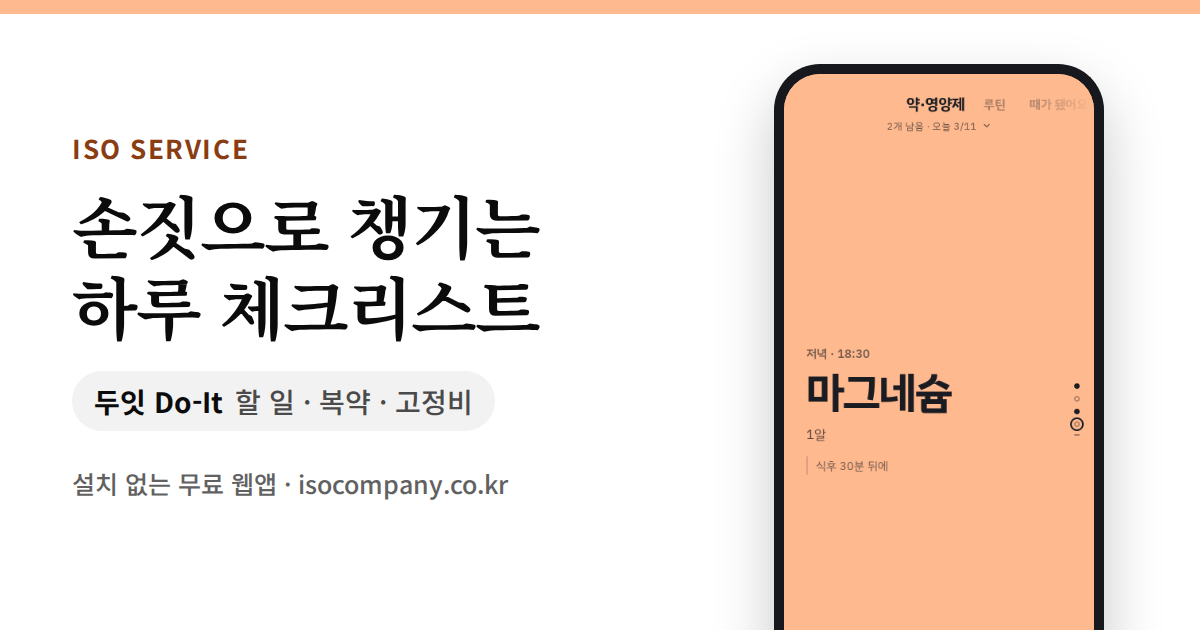
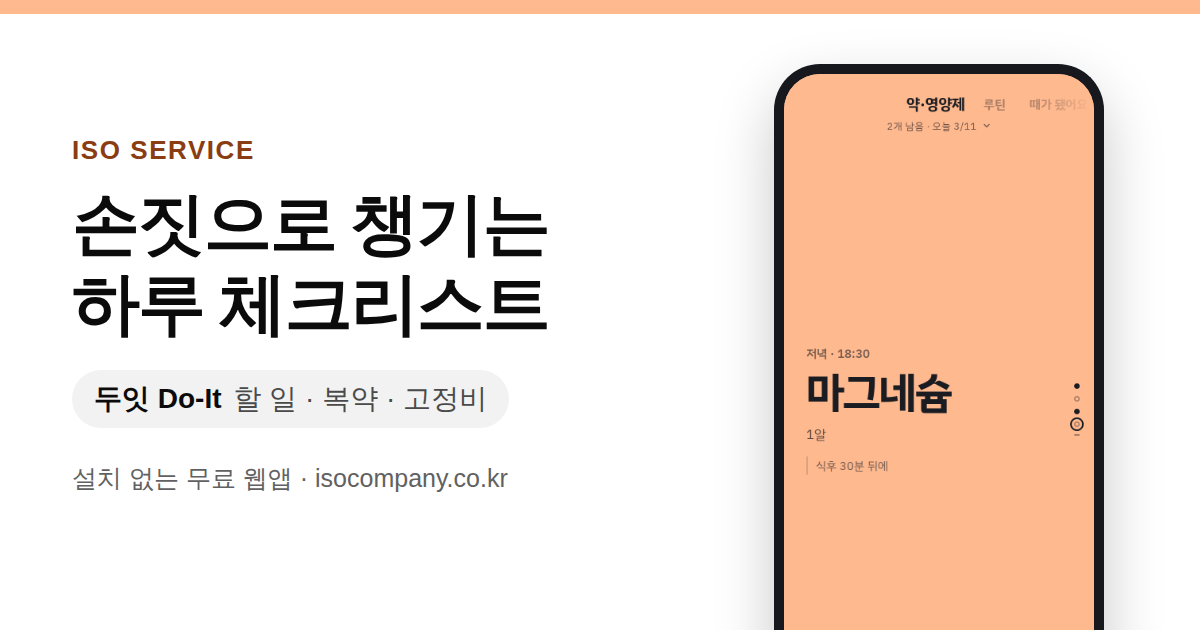
Feat: 공유 카드가 content/ 의 문구를 읽도록 연결
카드 HTML 에 박혀 있던 글자를 걷어내고 content/og.yml 과 services/*.yml 에서
받아 오게 했습니다. 서비스 한 줄 소개처럼 페이지와 겹치던 문구는 이제 한
곳에만 있습니다.

npm run og 로 카드 여섯 장을 다시 만듭니다(크롬 필요).
문구 연결을 맞추면서 홈 카드의 Do-It 설명이 페이지와 같아졌습니다
("할 일 · 복약 · 고정비 체크" -> "할 일·복약·고정비 체크 앱").

그림 외 빌드 산출물은 한 글자도 달라지지 않았습니다.

Claude-Session: https://claude.ai/code/session_019EnYkUvV32QaETB4UPKn2y

diff --git a/scripts/og-home.html b/scripts/og-home.html
@@ -57,29 +57,44 @@
 				font-weight: 500; color: #616161;
 			}
 			.foot { margin-top: 26px; font-size: 25px; font-weight: 500; color: #616161; }
-			.en { display: none; }
-			html.is-en .ko { display: none; }
-			html.is-en .en { display: inline; }
 		</style>
 	</head>
 	<body>
-		<script>if (location.hash === '#en') document.documentElement.classList.add('is-en'), document.documentElement.lang = 'en';</script>
-		<p class="eyebrow">ISO SERVICE</p>
-		<h1><span class="ko">북적이는<br />1인 스튜디오</span><span class="en">A crowded<br />one-person studio</span></h1>
+		<p class="eyebrow" data-og="eyebrow"></p>
+		<h1 data-og="home.headline"></h1>
 
 		<div class="cards">
 			<div class="card">
-				<b>Bible OnAir</b>
-				<i><span class="ko">예배용 성경 구절 프롬프터</span><span class="en">A scripture prompter for worship</span></i>
-				<em><span class="ko">Windows · 무료</span><span class="en">Windows · free</span></em>
+				<b data-og="home.cards.0.name"></b>
+				<i data-og="home.cards.0.tagline"></i>
+				<em data-og="home.cards.0.note"></em>
 			</div>
 			<div class="card">
-				<b>Do-It</b>
-				<i><span class="ko">할 일 · 복약 · 고정비 체크</span><span class="en">To-dos · pills · bills</span></i>
-				<em><span class="ko">웹앱 · 설치 없음</span><span class="en">Web app · no install</span></em>
+				<b data-og="home.cards.1.name"></b>
+				<i data-og="home.cards.1.tagline"></i>
+				<em data-og="home.cards.1.note"></em>
 			</div>
 		</div>
 
-		<p class="foot">isocompany.co.kr</p>
+		<p class="foot" data-og="home.foot"></p>
+		<script src="og-content.js"></script>
+		<script>
+			/* 문구는 content/ 에서 옵니다. 여기서는 자리에 끼워 넣기만 합니다. */
+			(function () {
+				var lang = location.hash === '#en' ? 'en' : 'ko';
+				document.documentElement.lang = lang;
+				var data = window.OG[lang];
+				document.querySelectorAll('[data-og]').forEach(function (el) {
+					var value = el.dataset.og.split('.').reduce(function (o, k) {
+						return o == null ? o : o[k];
+					}, data);
+					el.textContent = '';
+					String(value == null ? '' : value).split('\n').forEach(function (line, i) {
+						if (i) el.appendChild(document.createElement('br'));
+						el.appendChild(document.createTextNode(line));
+					});
+				});
+			})();
+		</script>
 	</body>
 </html>

diff --git a/scripts/og-do-it.html b/scripts/og-do-it.html
@@ -58,24 +58,40 @@
 				background: #FFB98F;
 			}
 			.phone img { display: block; width: 100%; }
-			.en { display: none; }
-			html.is-en .ko { display: none; }
-			html.is-en .en { display: inline; }
 		</style>
 		<script>if (location.hash === '#en') document.documentElement.classList.add('is-en'), document.documentElement.lang = 'en';</script>
 	</head>
 	<body>
 		<div class="copy">
-			<p class="eyebrow">ISO Service</p>
-			<h1><span class="ko">손짓으로 챙기는<br />하루 체크리스트</span><span class="en">A daily checklist<br />you run by touch</span></h1>
+			<p class="eyebrow" data-og="eyebrow"></p>
+			<h1 data-og="services.do-it.headline"></h1>
 			<p class="product">
-				<span class="ko" style="color:inherit;font-weight:700">두잇 Do-It</span><span class="en" style="color:inherit;font-weight:700">Do-It</span>
-				<span><span class="ko">할 일 · 복약 · 고정비</span><span class="en">To-dos · pills · bills</span></span>
+				<span style="color:inherit;font-weight:700" data-og="services.do-it.pillName"></span>
+				<span data-og="services.do-it.pillTagline"></span>
 			</p>
-			<p class="foot"><span class="ko">설치 없는 무료 웹앱 · isocompany.co.kr</span><span class="en">Free web app, no install · isocompany.co.kr</span></p>
+			<p class="foot" data-og="services.do-it.foot"></p>
 		</div>
 		<div class="phone">
 			<img src="../public/assets/screenshots/do-it-feed.png" alt="" />
 		</div>
+		<script src="og-content.js"></script>
+		<script>
+			/* 문구는 content/ 에서 옵니다. 여기서는 자리에 끼워 넣기만 합니다. */
+			(function () {
+				var lang = location.hash === '#en' ? 'en' : 'ko';
+				document.documentElement.lang = lang;
+				var data = window.OG[lang];
+				document.querySelectorAll('[data-og]').forEach(function (el) {
+					var value = el.dataset.og.split('.').reduce(function (o, k) {
+						return o == null ? o : o[k];
+					}, data);
+					el.textContent = '';
+					String(value == null ? '' : value).split('\n').forEach(function (line, i) {
+						if (i) el.appendChild(document.createElement('br'));
+						el.appendChild(document.createTextNode(line));
+					});
+				});
+			})();
+		</script>
 	</body>
 </html>

diff --git a/scripts/og-bible-onair.html b/scripts/og-bible-onair.html
@@ -55,21 +55,36 @@
 				box-shadow: 0 26px 60px rgba(0, 0, 0, 0.18);
 			}
 			.shot img { display: block; width: 100%; }
-			.en { display: none; }
-			html.is-en .ko { display: none; }
-			html.is-en .en { display: inline; }
 		</style>
 	</head>
 	<body>
-		<script>if (location.hash === '#en') document.documentElement.classList.add('is-en'), document.documentElement.lang = 'en';</script>
 		<div class="copy">
-			<p class="eyebrow">ISO Service</p>
-			<h1><span class="ko">예배용<br />성경 자막 프로그램</span><span class="en">A scripture prompter<br />for worship</span></h1>
-			<p class="product">Bible OnAir <span><span class="ko">성경 구절 프롬프터</span><span class="en">Scripture on the screen</span></span></p>
-			<p class="foot"><span class="ko">Windows 무료 · isocompany.co.kr</span><span class="en">Free for Windows · isocompany.co.kr</span></p>
+			<p class="eyebrow" data-og="eyebrow"></p>
+			<h1 data-og="services.bible-onair.headline"></h1>
+			<p class="product"><span data-og="services.bible-onair.pillName"></span> <span data-og="services.bible-onair.pillTagline"></span></p>
+			<p class="foot" data-og="services.bible-onair.foot"></p>
 		</div>
 		<div class="shot">
 			<img src="../public/assets/screenshots/bible-onair-screen.png" alt="" />
 		</div>
+		<script src="og-content.js"></script>
+		<script>
+			/* 문구는 content/ 에서 옵니다. 여기서는 자리에 끼워 넣기만 합니다. */
+			(function () {
+				var lang = location.hash === '#en' ? 'en' : 'ko';
+				document.documentElement.lang = lang;
+				var data = window.OG[lang];
+				document.querySelectorAll('[data-og]').forEach(function (el) {
+					var value = el.dataset.og.split('.').reduce(function (o, k) {
+						return o == null ? o : o[k];
+					}, data);
+					el.textContent = '';
+					String(value == null ? '' : value).split('\n').forEach(function (line, i) {
+						if (i) el.appendChild(document.createElement('br'));
+						el.appendChild(document.createTextNode(line));
+					});
+				});
+			})();
+		</script>
 	</body>
 </html>

diff --git a/scripts/og-content.js b/scripts/og-content.js
@@ -1,0 +1,71 @@
+/* 자동 생성 파일입니다. 고치지 마세요.
+   문구는 content/og.yml 과 content/services/*.yml 에 있고,
+   npm run build 가 이 파일을 다시 만듭니다. */
+window.OG = {
+	"ko": {
+		"eyebrow": "ISO SERVICE",
+		"home": {
+			"headline": "북적이는\n1인 스튜디오",
+			"foot": "isocompany.co.kr",
+			"cards": [
+				{
+					"name": "Bible OnAir",
+					"tagline": "예배용 성경 구절 프롬프터",
+					"note": "Windows · 무료"
+				},
+				{
+					"name": "Do-It",
+					"tagline": "할 일·복약·고정비 체크 앱",
+					"note": "웹앱 · 설치 없음"
+				}
+			]
+		},
+		"services": {
+			"bible-onair": {
+				"headline": "예배용\n성경 자막 프로그램",
+				"pillName": "Bible OnAir",
+				"pillTagline": "성경 구절 프롬프터",
+				"foot": "Windows 무료 · isocompany.co.kr"
+			},
+			"do-it": {
+				"headline": "손짓으로 챙기는\n하루 체크리스트",
+				"pillName": "두잇 Do-It",
+				"pillTagline": "할 일 · 복약 · 고정비",
+				"foot": "설치 없는 무료 웹앱 · isocompany.co.kr"
+			}
+		}
+	},
+	"en": {
+		"eyebrow": "ISO SERVICE",
+		"home": {
+			"headline": "A crowded\none-person studio",
+			"foot": "isocompany.co.kr",
+			"cards": [
+				{
+					"name": "Bible OnAir",
+					"tagline": "A scripture prompter for worship",
+					"note": "Windows · free"
+				},
+				{
+					"name": "Do-It",
+					"tagline": "A checklist for tasks, pills and bills",
+					"note": "Web app · no install"
+				}
+			]
+		},
+		"services": {
+			"bible-onair": {
+				"headline": "A scripture prompter\nfor worship",
+				"pillName": "Bible OnAir",
+				"pillTagline": "Scripture on the screen",
+				"foot": "Free for Windows · isocompany.co.kr"
+			},
+			"do-it": {
+				"headline": "A daily checklist\nyou run by touch",
+				"pillName": "Do-It",
+				"pillTagline": "To-dos · pills · bills",
+				"foot": "Free web app, no install · isocompany.co.kr"
+			}
+		}
+	}
+};
